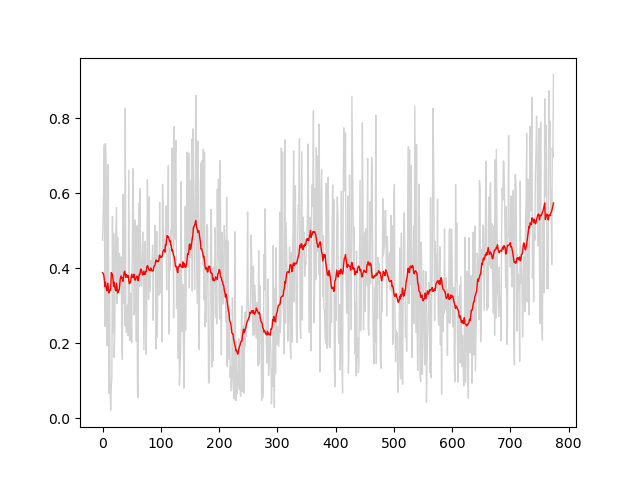
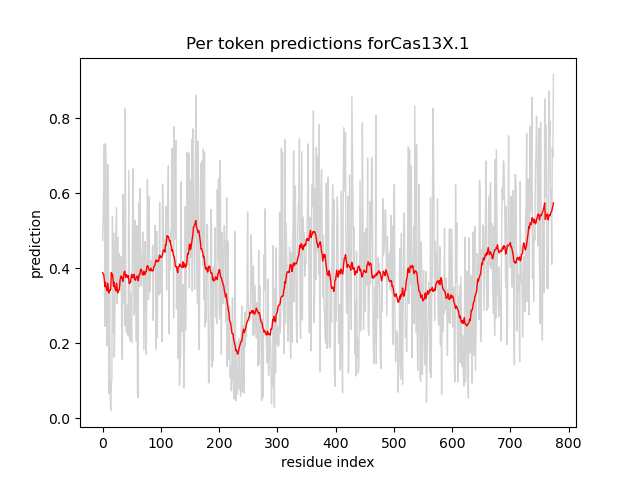
Added title and axes labels.

Changed region(s): [[0.2812, 0.0625, 0.7188, 0.125], [0.4375, 0.9375, 0.5938, 0.9688], [0.0312, 0.4375, 0.0625, 0.5938]]

diff --git a/thermoclass/results.py b/thermoclass/results.py
@@ -119,6 +119,9 @@ def plot_predictions(predictions_file, seq_key, indeces, sep, output_png, k=0):
 			y_smoothened_values.append(statistics.mean(window))
 
 	plt.plot(x_values, y_smoothened_values, linewidth=1, color='red')
+	plt.title('Per token predictions for'+seq_key)
+	plt.xlabel('residue index')
+	plt.ylabel('prediction')
 	plt.savefig(output_png)
 	plt.clf()
 
